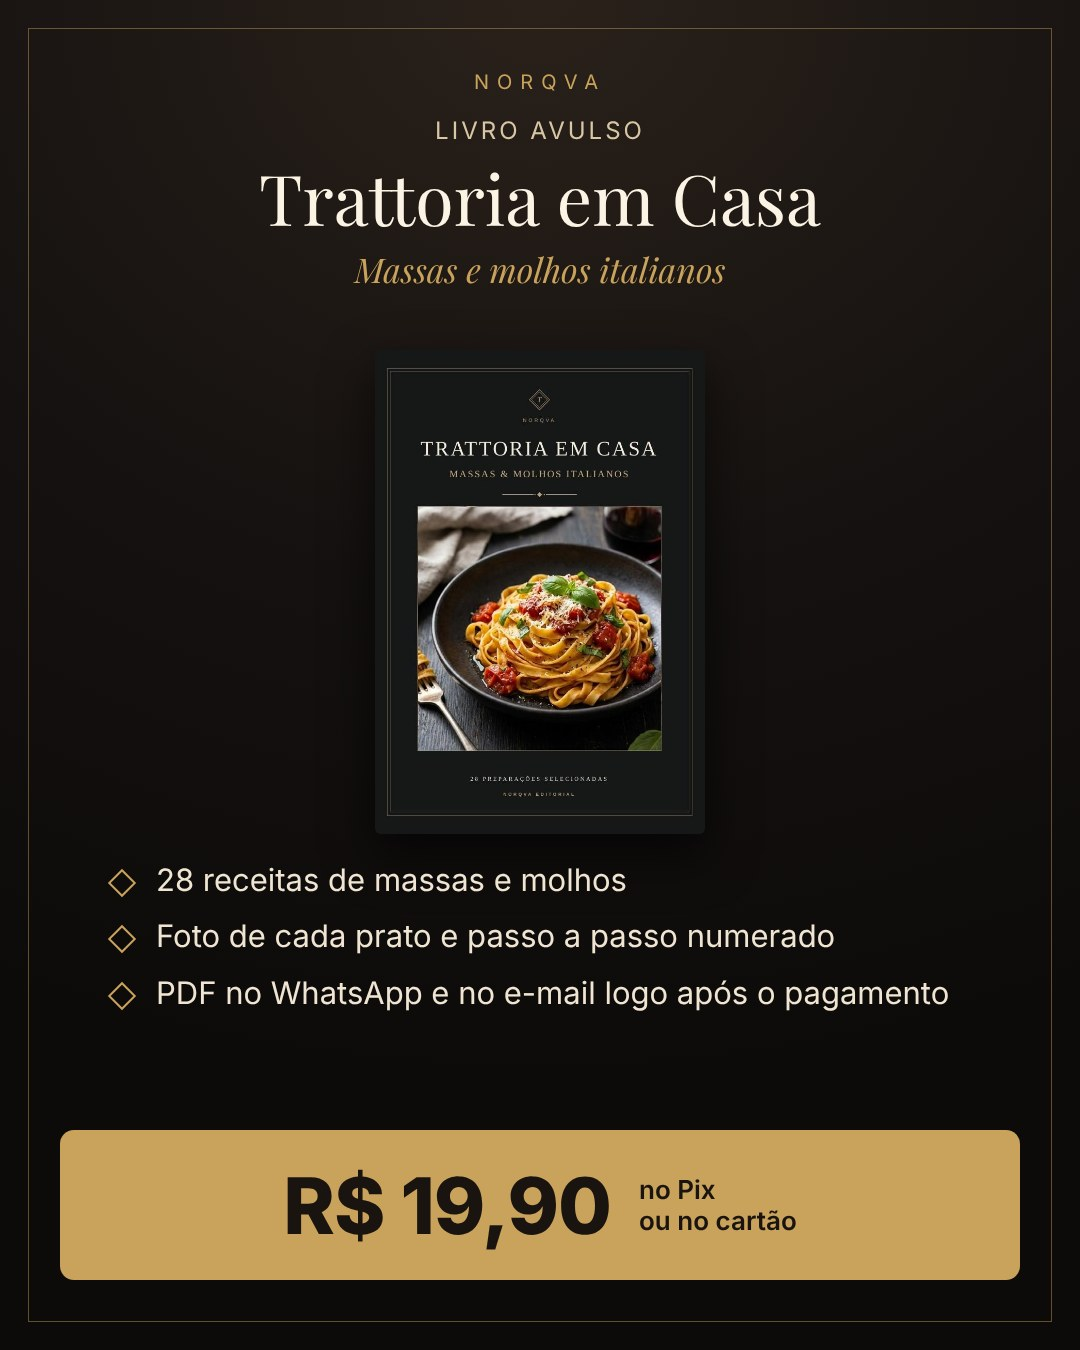
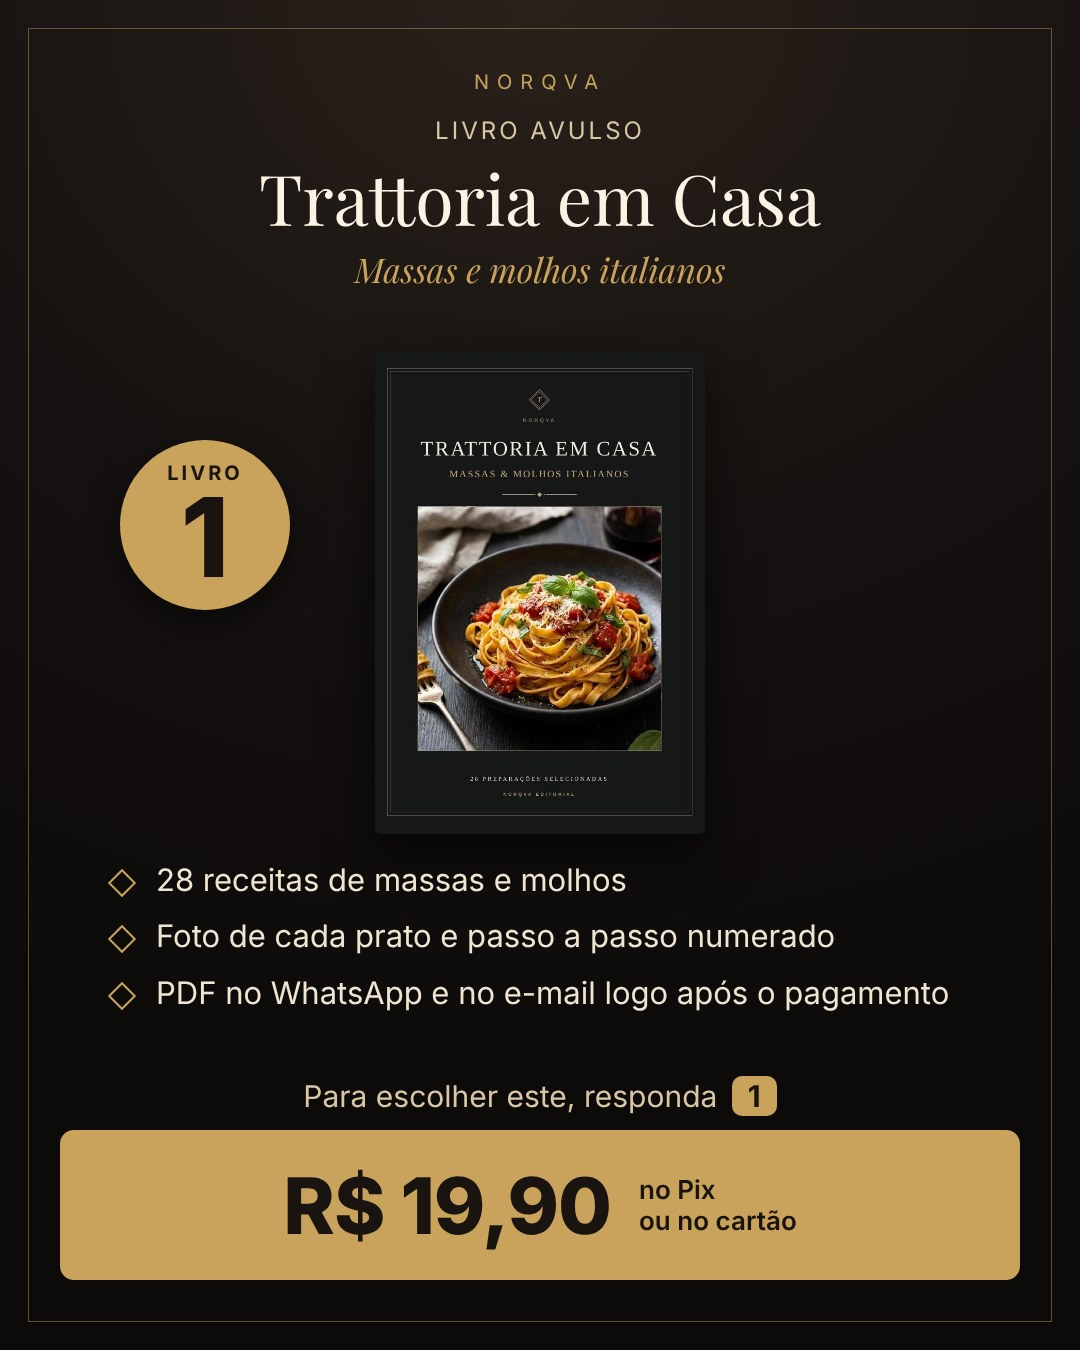
NORQVA-0154: livros avulsos vão todos juntos, numerados, para o cliente escolher
Claude-Session: https://claude.ai/code/session_01WWXz5oJUckwY7vTYgMY812

Changed region(s): [[0.0917, 0.3111, 0.275, 0.4667], [0.55, 0.7778, 0.7333, 0.84], [0.275, 0.8089, 0.5194, 0.84]]

diff --git a/backend/src/services/whatsapp/attendant.ts b/backend/src/services/whatsapp/attendant.ts
@@ -20,7 +20,7 @@ import { shouldCheckProvider } from '../paymentCheckThrottle';
 import { acknowledgeRecoveryOptOut, phoneKey, isExplicitStop } from './paymentRecovery';
 import { sendOrderPdfs, sendablePdfCount } from './whatsappDelivery';
 import { sampleKeyFor, samplesSent, loadSampleImage, SAMPLE_IMAGES, MAX_SAMPLE_IMAGES_PER_CONVERSATION, SAMPLE_CAPTION_PREFIX } from './samples';
-import { cardFor, cardsSent, cardOrderCheck } from './offerCards';
+import { cardFor, cardsSent, cardOrderCheck, OFFER_CARDS } from './offerCards';
 
 export const BOT_REPLIES_PER_CONVERSATION_HOUR = 20;
 export const BOT_MESSAGES_PER_NUMBER_HOUR = 150;
@@ -269,6 +269,8 @@ export function catalogText(catalog: Awaited<ReturnType<typeof loadCatalog>>, gr
     if (featuredCode) lines.push(`  Como apresentar: 2ª opção: alternativa mais em conta ao código ${featuredCode}: só depois dele, e só se o cliente não pediu para pagar o ${featuredCode}.`);
     if (hasFeatured && !c.featured && !featuredCode) lines.push('  Como apresentar: avulso. Só depois que o cliente recusar a 1ª e a 2ª opção, ou se ele pedir o preço de um livro avulso.');
     lines.push(c.offerCard ? '  Imagem com conteúdo e preço: disponível (send_offer_card).' : '  Imagem com conteúdo e preço: não há (apresente em texto).');
+    // NORQVA-0154: número do livro avulso escrito na imagem (o cliente responde o número)
+    if (OFFER_CARDS[c.code]?.number) lines.push(`  Número do livro avulso (na imagem): ${OFFER_CARDS[c.code].number}. Se o cliente responder ${OFFER_CARDS[c.code].number}, é este livro.`);
     lines.push(c.sample ? '  Fotos de amostra: disponíveis (send_samples).' : '  Fotos de amostra: não há.');
     return lines.join('\n');
   }).join('\n');
@@ -308,7 +310,8 @@ ${p.audio ? `6. Áudios do cliente chegam transcritos, começando com ${AUDIO_MA
    - Nunca liste vários produtos com preço de uma vez. Para mostrar uma oferta, CHAME send_offer_card com o código dela, nesta mesma resposta, e escreva só uma frase curta antes (a imagem já traz o conteúdo e o preço; não repita a lista nem o preço em texto). Termine perguntando se a pessoa quer garantir.
    - 1º: a oferta marcada como 1ª opção no catálogo (a recomendada), mesmo que o cliente peça "o link", "o e-book" ou cite outro kit.
    - 2º: se depois da 1ª o cliente NÃO pedir para pagar (achou caro, ficou em dúvida, disse que não, pediu algo mais barato ou só fez outra pergunta), envie a 2ª opção.
-   - Livros avulsos: só depois que o cliente recusar a 1ª e a 2ª opção, ou se ele pedir o preço de um livro avulso (aí use customer_asked_individual = true e envie só o livro que ele pediu, ou os avulsos se ele quiser ver todos).
+   - Livros avulsos: só depois que o cliente recusar a 1ª e a 2ª opção, ou se ele pedir o preço de um livro avulso (aí use customer_asked_individual = true). Basta chamar send_offer_card com o código de UM livro avulso: vão as imagens de TODOS os livros, numeradas, e a pergunta pedindo o número. Quando o cliente responder um número, é o livro com aquele número no catálogo.
+   - Se ele escolher 2 ou mais livros avulsos, mostre uma vez que a 2ª opção (os 5 livros) sai mais em conta e pergunte se prefere; se mantiver os avulsos, gere uma cobrança por livro, uma de cada vez.
    - Se o cliente pedir para pagar uma oferta já mostrada, gere a cobrança dela; não ofereça mais nada antes.
    - Se a ferramenta disser que não há imagem, apresente só aquela oferta em texto, com o preço do catálogo, na mesma ordem.
 6c. Formatação do WhatsApp: para negrito use um asterisco de cada lado (*assim*), nunca dois (**assim**).
@@ -667,14 +670,46 @@ async function toolOfferCard(ctx: Ctx, args: any) {
     if (needsText[0] && replies >= 1) shown.add(needsText[0]);
     if (needsText[1] && replies >= 2 && featuredItem && shown.has(featuredItem.code)) shown.add(needsText[1]);
   }
-  const check = cardOrderCheck(offer.code, {
+  const queued = new Set(ctx.cardsQueued || []);
+  // NORQVA-0154: livros avulsos numerados vão TODOS juntos, em ordem, para o cliente escolher pelo número
+  const books = ctx.catalog
+    .filter(x => OFFER_CARDS[x.code]?.number && cardOf(x) && x.code !== featuredItem?.code && x.code !== altItem?.code && (!offer.brandId || x.brandId === offer.brandId))
+    .sort((a, b) => (OFFER_CARDS[a.code].number || 0) - (OFFER_CARDS[b.code].number || 0));
+  const isBook = books.some(b => b.code === offer.code);
+  const pending = isBook ? books.filter(b => !shown.has(b.code) && !queued.has(b.code)) : [];
+  const check = cardOrderCheck(isBook && pending.length ? pending[0].code : offer.code, {
     featured: featuredItem?.code || null,
     alternative: altItem?.code || null,
     shown,
-    queued: new Set(ctx.cardsQueued || []),
+    queued,
     askedIndividual: args?.customer_asked_individual === true
   });
-  if (!check.ok) return { ok: false, error: check.error };
+  if (!check.ok) {
+    return isBook && !pending.length
+      ? { ok: false, error: 'As imagens dos livros avulsos já foram enviadas (cada uma com o número). Peça para a pessoa responder com o número do livro que quer.' }
+      : { ok: false, error: check.error };
+  }
+  if (isBook) {
+    let sentNow = 0;
+    const numbers: string[] = [];
+    for (const b of pending) {
+      const c = OFFER_CARDS[b.code];
+      const img = await loadSampleImage(c.path).catch(() => null);
+      if (!img) continue;
+      ctx.queue.push({ kind: 'image', base64: img.base64, caption: c.caption, mimetype: img.mimetype });
+      ctx.cardsQueued = [...(ctx.cardsQueued || []), b.code];
+      numbers.push(`${c.number} = ${b.code} (${b.name})`);
+      sentNow++;
+    }
+    if (!sentNow) return { ok: false, error: 'Não consegui carregar as imagens agora. Apresente os livros avulsos em texto, com o preço do catálogo.' };
+    await lockTopic(ctx, offer);
+    const all = books.map(b => OFFER_CARDS[b.code].number).join(', ');
+    ctx.queue.push({ kind: 'text', text: `Qual livro você quer? É só responder com o número (${all}) 😊` });
+    return {
+      ok: true,
+      note: `Vão ${sentNow} imagens de livros avulsos logo depois da sua mensagem, cada uma com o número, e no fim a pergunta pedindo o número. Escreva só uma frase curta de introdução, sem listar livros, preços ou números. Números: ${numbers.join('; ')}.`
+    };
+  }
   const loaded = await loadSampleImage(card.path).catch(() => null);
   if (!loaded) return { ok: false, error: 'Não consegui carregar a imagem agora. Apresente só esta oferta em texto, com o preço do catálogo.' };
   await lockTopic(ctx, offer);

diff --git a/backend/src/tests/norqva_0153_offer_cards.test.ts b/backend/src/tests/norqva_0153_offer_cards.test.ts
@@ -242,6 +242,54 @@ describe.sequential('NORQVA-0153 — atendente envia as imagens na ordem', () =>
     expect(captions()).toEqual(['Livro 0153']);
   });
 
+  it('NORQVA-0154: livros avulsos vão todos juntos, numerados, com a pergunta pelo número no fim', async () => {
+    const book2Id = crypto.randomUUID();
+    const book2Code = `OFF-M${tag}`;
+    await pool.query(
+      `INSERT INTO offers (id, human_id, name, product_id, price, promotional_price, status, description, is_demo, data_provenance, created_at)
+       VALUES ($1, $2, 'Dolci della Nonna', $3, 14.90, NULL, 'ATIVA', 'Livro', false, 'COMMERCIAL_PRODUCTION', '2026-09-02T12:00:00Z')`,
+      [book2Id, book2Code, productId]
+    );
+    setOfferCardsForTests({
+      [colCode]: { path: '/images/whatsapp/off-000016.jpg', pix: 47, from: 94.5, card: true, caption: 'Coleção 0153' },
+      [kitCode]: { path: '/images/whatsapp/off-000010.jpg', pix: 29.9, from: 94.5, card: true, caption: 'Kit 0153' },
+      [bookCode]: { path: '/images/whatsapp/off-000001.jpg', pix: 19.9, from: null, card: true, number: 1, caption: 'Livro 1 · 0153' },
+      [book2Code]: { path: '/images/whatsapp/off-000005.jpg', pix: 14.9, from: null, card: false, number: 2, caption: 'Livro 2 · 0153' }
+    });
+    try {
+      expect(catalogText(await loadCatalog(pool, brandId))).toContain('Número do livro avulso (na imagem): 2. Se o cliente responder 2, é este livro.');
+      const jid = '5531922220006@s.whatsapp.net';
+      const conv = await says(jid, 'Quanto custa só o livro de sobremesas?');
+      (provider.sendText as any).mockClear();
+      script = [
+        { content: null, tool_calls: [{ id: `n1-${crypto.randomUUID().slice(0, 4)}`, name: 'send_offer_card', arguments: JSON.stringify({ offer_code: book2Code, customer_asked_individual: true }) }] },
+        { content: 'Aqui estão os livros avulsos 👇', tool_calls: [] }
+      ];
+      await processConversation(pool, conv, []);
+      expect(captions()).toEqual(['Livro 1 · 0153', 'Livro 2 · 0153']);
+      const texts = (provider.sendText as any).mock.calls.map((c: any[]) => c[2]);
+      expect(texts[texts.length - 1]).toBe('Qual livro você quer? É só responder com o número (1, 2) 😊');
+
+      // pedir de novo: não reenvia; a IA é avisada para pedir o número
+      (provider.sendImage as any).mockClear();
+      const conv2 = await says(jid, 'Manda de novo os livros');
+      script = [
+        { content: null, tool_calls: [{ id: `n2-${crypto.randomUUID().slice(0, 4)}`, name: 'send_offer_card', arguments: JSON.stringify({ offer_code: bookCode, customer_asked_individual: true }) }] },
+        { content: 'Já te mandei acima, é só responder com o número 😊', tool_calls: [] }
+      ];
+      await processConversation(pool, conv2, []);
+      expect(captions()).toEqual([]);
+      expect(toolResults.some(r => r?.ok === false && /número/.test(String(r.error)))).toBe(true);
+    } finally {
+      setOfferCardsForTests({
+        [colCode]: { path: '/images/whatsapp/off-000016.jpg', pix: 47, from: 94.5, card: true, caption: 'Coleção 0153' },
+        [kitCode]: { path: '/images/whatsapp/off-000010.jpg', pix: 29.9, from: 94.5, card: true, caption: 'Kit 0153' },
+        [bookCode]: { path: '/images/whatsapp/off-000001.jpg', pix: 19.9, from: null, card: true, caption: 'Livro 0153' }
+      });
+      await pool.query('DELETE FROM offers WHERE id = $1', [book2Id]);
+    }
+  });
+
   it('preço da oferta mudou: a imagem não sai e a IA é avisada para apresentar em texto', async () => {
     await pool.query('UPDATE offers SET promotional_price = 49.90 WHERE id = $1', [colId]);
     try {

diff --git a/backend/src/services/whatsapp/offerCards.ts b/backend/src/services/whatsapp/offerCards.ts
@@ -16,16 +16,18 @@ export interface OfferCard {
   /** legenda que o cliente vê embaixo da imagem (também identifica o envio no histórico: mudar a legenda faz as
    *  conversas antigas não reconhecerem mais o envio, e a imagem pode sair de novo) */
   caption: string;
+  /** NORQVA-0154: número do livro avulso (escrito na imagem): o cliente escolhe respondendo o número */
+  number?: number;
 }
 
 const DEFAULT_CARDS: Record<string, OfferCard> = {
   'OFF-000016': { path: '/images/whatsapp/off-000016.jpg', pix: 47, from: 94.5, card: true, caption: 'Coleção Trattoria Completa: 5 livros + bônus' },
   'OFF-000010': { path: '/images/whatsapp/off-000010.jpg', pix: 29.9, from: 94.5, card: true, caption: 'Kit Trattoria Completo: 5 livros' },
-  'OFF-000001': { path: '/images/whatsapp/off-000001.jpg', pix: 19.9, from: null, card: true, caption: 'Trattoria em Casa (livro avulso)' },
-  'OFF-000005': { path: '/images/whatsapp/off-000005.jpg', pix: 14.9, from: null, card: false, caption: 'Dolci della Nonna (livro avulso)' },
-  'OFF-000007': { path: '/images/whatsapp/off-000007.jpg', pix: 19.9, from: null, card: true, caption: 'Pães & Fermentação Natural (livro avulso)' },
-  'OFF-000008': { path: '/images/whatsapp/off-000008.jpg', pix: 19.9, from: null, card: true, caption: 'Antipasti & Aperitivo (livro avulso)' },
-  'OFF-000009': { path: '/images/whatsapp/off-000009.jpg', pix: 19.9, from: null, card: true, caption: 'Risotos & Polentas (livro avulso)' }
+  'OFF-000001': { path: '/images/whatsapp/off-000001.jpg', pix: 19.9, from: null, card: true, number: 1, caption: 'Livro 1 · Trattoria em Casa · R$ 19,90' },
+  'OFF-000005': { path: '/images/whatsapp/off-000005.jpg', pix: 14.9, from: null, card: false, number: 5, caption: 'Livro 5 · Dolci della Nonna · R$ 14,90' },
+  'OFF-000007': { path: '/images/whatsapp/off-000007.jpg', pix: 19.9, from: null, card: true, number: 4, caption: 'Livro 4 · Pães & Fermentação Natural · R$ 19,90' },
+  'OFF-000008': { path: '/images/whatsapp/off-000008.jpg', pix: 19.9, from: null, card: true, number: 3, caption: 'Livro 3 · Antipasti & Aperitivo · R$ 19,90' },
+  'OFF-000009': { path: '/images/whatsapp/off-000009.jpg', pix: 19.9, from: null, card: true, number: 2, caption: 'Livro 2 · Risotos & Polentas · R$ 19,90' }
 };
 
 export let OFFER_CARDS: Record<string, OfferCard> = DEFAULT_CARDS;

diff --git a/norqva-ai/produtos/whatsapp_cards/build_cards.py b/norqva-ai/produtos/whatsapp_cards/build_cards.py
@@ -29,19 +29,19 @@ CARDS = {
                        bullets=["74 receitas italianas com foto e passo a passo", "Massas, risotos, antipasti, pães e sobremesas",
                                 "Medidas em gramas e ml", "PDF no WhatsApp e no e-mail logo após o pagamento"],
                        old="94,50", price="29,90", badge=None),
-    "OFF-000001": dict(kicker="Livro avulso", title="Trattoria em Casa", sub="Massas e molhos italianos", covers=[TRAT],
+    "OFF-000001": dict(kicker="Livro avulso", number=1, title="Trattoria em Casa", sub="Massas e molhos italianos", covers=[TRAT],
                        bullets=["28 receitas de massas e molhos", "Foto de cada prato e passo a passo numerado", "PDF no WhatsApp e no e-mail logo após o pagamento"],
                        old=None, price="19,90", badge=None),
-    "OFF-000005": dict(kicker="Livro avulso", title="Dolci della Nonna", sub="Sobremesas italianas", covers=[DOLCI],
+    "OFF-000005": dict(kicker="Livro avulso", number=5, title="Dolci della Nonna", sub="Sobremesas italianas", covers=[DOLCI],
                        bullets=["10 sobremesas italianas", "Foto de cada prato e passo a passo numerado", "PDF no WhatsApp e no e-mail logo após o pagamento"],
                        old=None, price="14,90", badge=None, pix_only=True),
-    "OFF-000007": dict(kicker="Livro avulso", title="Pães & Fermentação Natural", sub="Pães italianos em casa", covers=[PAES],
+    "OFF-000007": dict(kicker="Livro avulso", number=4, title="Pães & Fermentação Natural", sub="Pães italianos em casa", covers=[PAES],
                        bullets=["11 pães italianos e o fermento natural", "Foto de cada receita e passo a passo numerado", "PDF no WhatsApp e no e-mail logo após o pagamento"],
                        old=None, price="19,90", badge=None),
-    "OFF-000008": dict(kicker="Livro avulso", title="Antipasti & Aperitivo", sub="Para abrir a mesa italiana", covers=[ANTI],
+    "OFF-000008": dict(kicker="Livro avulso", number=3, title="Antipasti & Aperitivo", sub="Para abrir a mesa italiana", covers=[ANTI],
                        bullets=["12 receitas de entradas e petiscos", "Foto de cada prato e passo a passo numerado", "PDF no WhatsApp e no e-mail logo após o pagamento"],
                        old=None, price="19,90", badge=None),
-    "OFF-000009": dict(kicker="Livro avulso", title="Risotos & Polentas", sub="O conforto do norte da Itália", covers=[RIS],
+    "OFF-000009": dict(kicker="Livro avulso", number=2, title="Risotos & Polentas", sub="O conforto do norte da Itália", covers=[RIS],
                        bullets=["12 receitas de risotos e polentas", "Foto de cada prato e passo a passo numerado", "PDF no WhatsApp e no e-mail logo após o pagamento"],
                        old=None, price="19,90", badge=None),
 }
@@ -75,6 +75,9 @@ def page(c):
     bullets = "".join(f"<li>{b}</li>" for b in c["bullets"])
     old = f'<div class="old">de R$ {c["old"]}</div>' if c["old"] else ""
     badge = f'<div class="badge">{c["badge"]}</div>' if c["badge"] else ""
+    num = c.get("number")
+    numhtml = (f'<div class="num"><span>LIVRO</span>{num}</div>'
+               f'<div class="pick">Para escolher este, responda <b>{num}</b></div>') if num else ""
     return f"""<!doctype html><html><head><meta charset="utf-8"><style>
 @font-face{{font-family:Playfair;src:url({font('playfair-display-latin-400-normal.woff')})}}
 @font-face{{font-family:Playfair;font-style:italic;src:url({font('playfair-display-latin-400-italic.woff')})}}
@@ -97,10 +100,14 @@ li:before{{content:"";position:absolute;left:-44px;top:13px;width:16px;height:16
 .old{{font-size:30px;text-decoration:line-through;opacity:.7}}
 .now{{font-size:78px;font-weight:800;letter-spacing:-1px}}
 .how{{font-size:26px;font-weight:600;line-height:1.2}}
+.num{{position:absolute;top:440px;left:120px;width:170px;height:170px;border-radius:50%;background:#c9a25c;color:#1a1410;display:flex;flex-direction:column;align-items:center;justify-content:center;font-size:110px;font-weight:800;line-height:.9;z-index:40;box-shadow:0 10px 30px rgba(0,0,0,.5)}}
+.num span{{font-size:20px;font-weight:700;letter-spacing:3px;margin-bottom:6px}}
+.pick{{position:absolute;bottom:236px;left:0;right:0;text-align:center;font-size:30px;color:#d8c6a5}}
+.pick b{{color:#1a1410;background:#c9a25c;border-radius:10px;padding:2px 16px;margin-left:6px}}
 .badge{{position:absolute;top:300px;right:90px;background:#8f2f22;color:#fbefe0;font-size:22px;font-weight:700;letter-spacing:2px;text-transform:uppercase;padding:10px 20px;border-radius:999px;z-index:30}}
 </style></head><body><div class="frame"></div>
 <div class="top"><div class="brand">NORQVA</div><div class="kicker">{c['kicker']}</div><h1>{c['title']}</h1><div class="sub">{c['sub']}</div></div>
-{badge}{covers_html(c['covers'])}<ul>{bullets}</ul>
+{badge}{numhtml}{covers_html(c['covers'])}<ul>{bullets}</ul>
 <div class="price">{old}<div class="now">R$ {c['price']}</div><div class="how">{'no Pix' if c.get('pix_only') else 'no Pix<br>ou no cartão'}</div></div>
 </body></html>"""
 

diff --git a/norqva-ai/tasks/NORQVA-0154.md b/norqva-ai/tasks/NORQVA-0154.md
@@ -1,0 +1,23 @@
+# NORQVA-0154: livros avulsos no WhatsApp vão todos juntos, numerados
+
+**Branch:** `ai/NORQVA-0154-avulsos-numerados` · **Pedido:** Ricardo, 29/10/2026 21h14 ("em livro avulso, enviar as imagens de todos os livros, numa forma que facilite o cliente escolher") · **Tipo:** conteúdo e abordagem do atendente (pagamento e entrega intactos) · **Risco:** LOW
+
+## Correção
+
+- Imagens dos 5 livros com o número grande ("LIVRO 1" a "LIVRO 5") e a linha "Para escolher este, responda N" (`build_cards.py`). Ordem: 1 Trattoria, 2 Risotos, 3 Antipasti, 4 Pães, 5 Dolci.
+- Legenda com número, nome e preço ("Livro 1 · Trattoria em Casa · R$ 19,90"); `OfferCard.number`.
+- `send_offer_card` com um livro avulso manda as imagens de TODOS os livros com imagem válida, em ordem, e no fim a pergunta "Qual livro você quer? É só responder com o número (...)". Pedir de novo não reenvia (a IA é avisada para pedir o número).
+- Catálogo do atendente diz o número de cada livro ("Se o cliente responder 2, é este livro"); regra 6b: dois ou mais avulsos → mostrar uma vez que os 5 livros saem mais em conta; mantendo, uma cobrança por livro.
+- Condições de atendimento (texto da empresa) atualizadas para a abordagem nova (aceito pelo Ricardo em 29/10 21h14).
+
+## Testes
+
+`norqva_0153_offer_cards.test.ts` (caso novo NORQVA-0154).
+
+## Revisão independente
+
+(pendente)
+
+## Execução
+
+(pendente)
